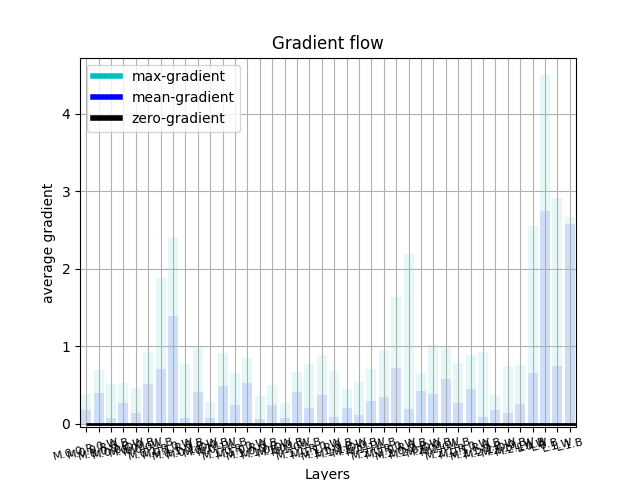
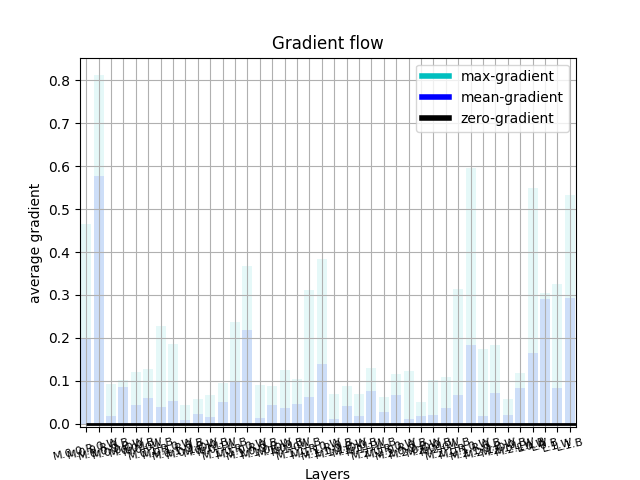
update s2v gradient image and add new graph edge calculation

diff --git a/HeteroGraphMethod/dataPreprocess.py b/HeteroGraphMethod/dataPreprocess.py
@@ -1,3 +1,4 @@
+import math
 from dataFormat import TimeSeqGameData
 from parameters import timeDiff, playerNum, fieldLength, fieldWidth, penaltyLength, penaltyWidth
 from dataFormat import Player, BallData, GameData, TimeSeqGameData
@@ -50,6 +51,41 @@ def convertBallData2Y(ballData):
 
     return data_list
 
+def generateEdges(gameData1, gameData2):
+    source = []
+    target = []
+
+    #special check for ballData for it is not list type data
+    if(type(gameData1).__name__ != 'list'):
+        gameData1 = [gameData1]
+
+    if(type(gameData2).__name__ != 'list'):
+        gameData2 = [gameData2]
+
+
+    for i in range(len(gameData1)):
+        for j in range(len(gameData2)):
+            if(checkConnection(gameData1[i], gameData2[j])):
+                source.append(i)
+                target.append(j)
+    
+    return [source, target]
+
+def checkConnection(source, target):
+    threshold = 3000
+
+    #reverse normalization
+    source_x = source.x * fieldLength - fieldLength/2
+    source_y = source.y * fieldWidth - fieldWidth/2
+    target_x = target.x * fieldLength - fieldLength/2
+    target_y = target.y * fieldWidth - fieldWidth/2
+
+    if(math.hypot(source_x-target_x, source_y-target_y) <= threshold):
+        return True
+    
+    return False
+
+
 def checkPlayerDataValid(playerData):
     if(len(playerData) > playerNum):
         print('Player number is too large, pass')
@@ -86,7 +122,7 @@ def readFromText(fileName):
     ignoreCnt = 0
     startTime = 500
 
-#extract data from text file
+    #extract data from text file
     while True:  
         # dat = line.split(' ')
         
@@ -164,8 +200,6 @@ def readFromText(fileName):
     print('End of data preprocessing, the size of useful data can be used', len(allData))
 
     return allData
-
-
 
 def processMin_Max_Norm(allData):
     bluevelx = []

diff --git a/HeteroGraphMethod/SSLDataset.py b/HeteroGraphMethod/SSLDataset.py
@@ -1,7 +1,7 @@
 import torch
 from itertools import chain
 import itertools
-from dataPreprocess import generateTimeSeqData, convertPlayData2List, convertPlayData2Y, convertBallData2List, convertBallData2Y, checkPlayerDataValid, checkBallDataValid
+from dataPreprocess import generateTimeSeqData, convertPlayData2List, convertPlayData2Y, convertBallData2List, convertBallData2Y, generateEdges, checkPlayerDataValid, checkBallDataValid
 from parameters import playerNum, device
 
 
@@ -26,9 +26,15 @@ class SSLDataset():
             x.append(torch.tensor(convertPlayData2List(cur.yellowData)).to(device))
             x.append(torch.tensor(convertBallData2List(cur.ballData)).to(device))
             
-            node_num = [playerNum,playerNum,1]
-            a = [list(range(n)) for n in node_num]
-            edges = [torch.LongTensor(list(itertools.product(a[i],a[j]))).T.to(device) for i in range(3) for j in range(3)]
+            # node_num = [playerNum,playerNum,1]
+            # a = [list(range(n)) for n in node_num]
+            # edges = [torch.LongTensor(list(itertools.product(a[i],a[j]))).T.to(device) for i in range(3) for j in range(3)]
+            # print('edges 111: ', edges)
+
+
+            dataList = [cur.blueData, cur.yellowData, cur.ballData]
+            edges = [torch.LongTensor(generateEdges(dataList[i], dataList[j])).to(device) for i in range(3) for j in range(3)]
+            # print('edges 222: ', edges)
             
             y = []
             y.append(torch.tensor(convertPlayData2Y(predict.blueData)).to(device))

diff --git a/HeteroGraphMethod/Net.py b/HeteroGraphMethod/Net.py
@@ -26,13 +26,11 @@ class s2vNet(torch.nn.Module):
         # self.lin1 = MList([Lin(output_channels[i],output_channels[i]) for i in range(3)])
         # self.lin2 = MList([Lin(output_channels[i],output_channels[i]) for i in range(3)])
         # self.lin3 = MList([Lin(output_channels[i],output_channels[i]) for i in range(3)])
-        self.lin4 = MList([Lin(node_input_channels[i],node_input_channels[i]) for i in range(3)])
+        # self.lin4 = MList([Lin(node_input_channels[i],node_input_channels[i]) for i in range(3)])
 
-    def forward(self, data):
-        x = data.x
-        edge_index = data.edges
-        for i in range(3):
-            x[i] = self.lin4[i](x[i])
+    def forward(self, x, edges):
+        # for i in range(3):
+        #     x[i] = self.lin4[i](x[i])
         
         x = self.conv1(x, edge_index)
         # print('x shape: ', x[0].size())

diff --git a/HeteroGraphMethod/mys2v.py b/HeteroGraphMethod/mys2v.py
@@ -89,10 +89,14 @@ class MultiS2V(torch.nn.Module):
                 out = features[j].index_select(0,edge_index[eii][0])
                 # print('i, j, out: ', i, j, out)
                 index = edge_index[eii][1]
-                # print('before scatter, out shape: ', out.shape)
+                print('eii: ', edge_index[eii])
+                print('index: ', index)
+                print('before scatter, out shape: ', out.shape)
                 out = scatter_add(out,index,dim=0)
-                # print('after scatter_add, out shape: ', out.shape)
+                print('after scatter_add, out shape: ', out.shape)
+                print('before o shape: ', o.shape)
                 o = o + self.lin2[j][i](out)
+                print('after o shape: ', o.shape)
             o2.append(o)
 
      

diff --git a/HeteroGraphMethod/heterogeneous/myheter.py b/HeteroGraphMethod/heterogeneous/myheter.py
@@ -37,6 +37,9 @@ class HeterogeneousGraph(torch.nn.Module):
         o = [[self.model[i][j]((x[i],x[j]),edge_index[i][j],size=(None if i==j else (x[i].shape[0],x[j].shape[0]))) for j in range(self.category)] for i in range(self.category)]
         
         outs = [self.lin[i](torch.cat([o[j][i] for j in range(self.category)],dim=-1)) for i in range(self.category)]
+
+        for i in range(3):
+            outs[i] = torch.sigmoid(outs[i])
         return outs
 
 class MultiHeterGraph(torch.nn.Module):

diff --git a/HeteroGraphMethod/main.py b/HeteroGraphMethod/main.py
@@ -50,11 +50,12 @@ test_len = length - train_len - val_len
 node_input_channels = np.array([4,4,4])
 node_features = np.array([4,4,4])
 output_channels = np.array([2,2,2])
+
 model = HeterogeneousGraph(PNAMODEL, node_input_channels, output_channels).to(device)
 optimizer = optim.Adam(model.parameters(), lr=0.001, weight_decay=5e-4)
 # criterion = torch.nn.MSELoss()
 criterion = torch.nn.L1Loss()
-batch_size = 30
+batch_size = 40
 batch_num = int(train_len/batch_size) + 1
 
 def train(epoch):

diff --git a/HeteroGraphMethod/parameters.py b/HeteroGraphMethod/parameters.py
@@ -6,7 +6,7 @@ fieldLength = 9000
 fieldWidth = 6000
 penaltyLength = 2000
 penaltyWidth = 1000
-timeDiff = 2
+timeDiff = 1
 savePic = False
 accThreshold = 0.08
 accThresholdReal = 650

diff --git a/README.md b/README.md
@@ -19,7 +19,13 @@ code and materials for Multi-Agent Trajectory Predition Based on Graph Neural Ne
 
 - `mys2v.py`: basic graph neural network we use 
 
+- `pna/mypna.py`: Heterogeneous PNAConv
+
+- `heterogeneous/myheter.py`: Heterogeneous graph neural network frame supporting different GNNs
+
 - `Net.py`: neural network we construct
+
+- `debug/debug.py`: draw gradient of graph neural network
 
 - `visualize.py`: draw pictures of our training result
 

diff --git a/HeteroGraphMethod/pnaimage1/README.md b/HeteroGraphMethod/pnaimage1/README.md
@@ -1,0 +1,1 @@
+This folder is for *PNAConv* just one layer using *Heterogeneous*

diff --git a/HeteroGraphMethod/s2vimage1/README.md b/HeteroGraphMethod/s2vimage1/README.md
@@ -1,0 +1,1 @@
+This folder is for *S2V* method with batch size changed to 40.
